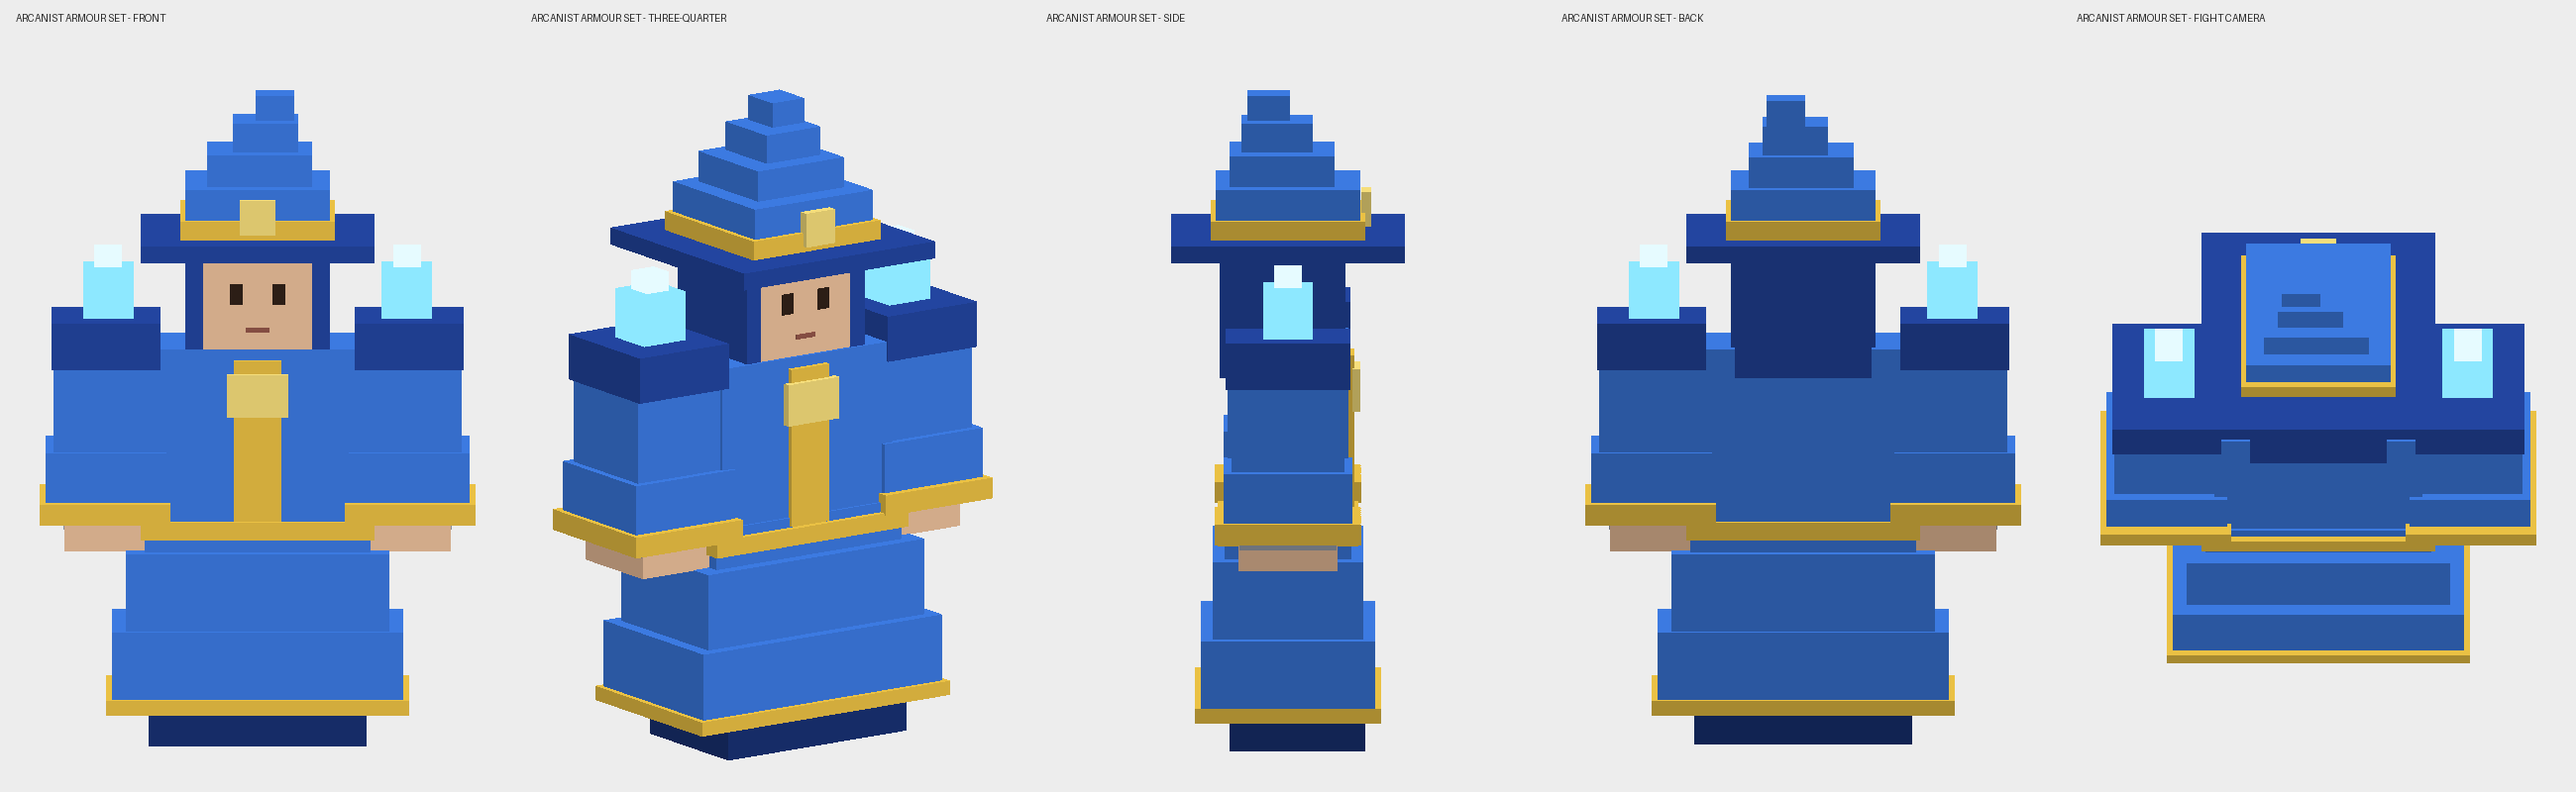
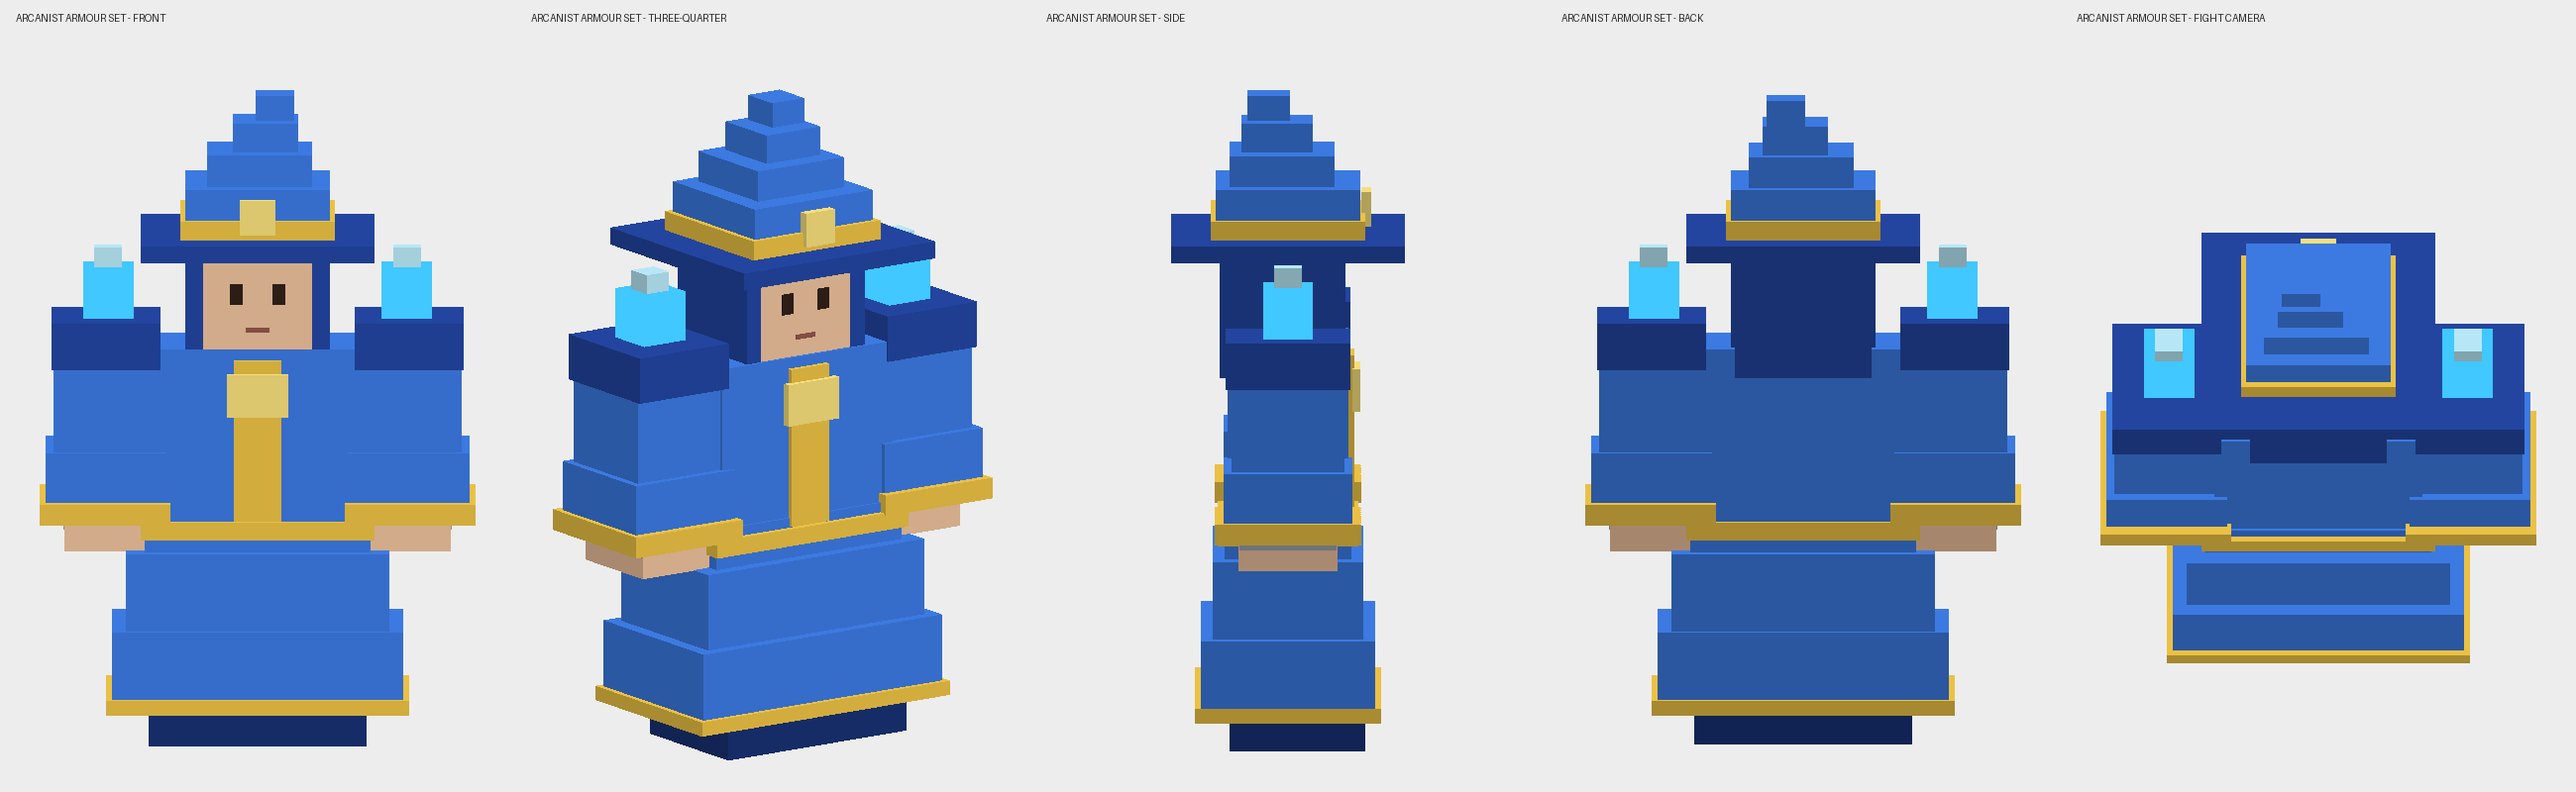
Class armour: docs say what was checked and what was not seen; plan sheets redrawn

diff --git a/docs/TRACKER.md b/docs/TRACKER.md
@@ -28,7 +28,7 @@ Nothing moves on these until you answer, so they keep their full detail.
 
 | What | What the owner does | Then Claude | Where it is |
 |---|---|---|---|
-| Class armour sets, Outfit C (2026-11-12; owner: "for the class choosing make it C") | **Look in Play:** the class select cards, the Gear portrait and a fight. Does each class read as your Outfit C drawing, by shape and colour, with the weapon hidden? They are plain blocks today. **Then the real models:** start the proposed session "Class armour: build the three sets in Claude Design" (or say to), and when it asks, import its three `<class>_pieces.glb` files (File, Import 3D, keep part names) | Builds the sets in Claude Design from the sheets, cuts each into its pieces, and after your import puts the mesh ids into `Config/ClassOutfits`, looks at them beside the sheets and ships | `Config/ClassOutfits`, `Util/ClassOutfit`, `tests/ClassOutfits.spec`; PIPELINES 12. Sheets in `assets/concepts/blocky/players/armour/` (`<class>_views.png` from Codex, `<class>_plan.png` measured); prompts in `docs/design-prompts/class-armour-2026-11.md`. In a run the avatar is set to the standard proportions and its own accessories are hidden; the lobby keeps the avatar as it is |
+| Class armour sets, Outfit C (2026-11-12; owner: "for the class choosing make it C") | **Look in Play:** the class select cards, the Gear portrait and a fight. Does each class read as your Outfit C drawing, by shape and colour, with the weapon hidden? They are plain blocks today. **Then the real models:** start the proposed session "Class armour: build the three sets in Claude Design" (or say to), and when it asks, import its three `<class>_pieces.glb` files (File, Import 3D, keep part names) | Builds the sets in Claude Design from the sheets, cuts each into its pieces, and after your import puts the mesh ids into `Config/ClassOutfits`, looks at them beside the sheets and ships | `Config/ClassOutfits`, `Util/ClassOutfit`, `tests/ClassOutfits.spec`; PIPELINES 12. Sheets in `assets/concepts/blocky/players/armour/` (`<class>_views.png` from Codex, `<class>_plan.png` measured); prompts in `docs/design-prompts/class-armour-2026-11.md`. In a run the avatar is set to the standard proportions and its own accessories are hidden; the lobby keeps the avatar as it is. Checked in Studio 2026-11-12 by probe on your avatar (a slim bundle with four accessories): every card holds its class's set, a run puts the set on (38, 35 and 45 solids), a class switch swaps it, nothing of the body stands proud of a piece, the soles reach the floor, pieces stay on their welds, and the lobby gives back the accessories and proportions. Looked at through Roblox's renderer only on plain blocky stand-in rigs in the Edit view: Play captures drew no 3D that night, so **the cards, the Gear portrait and a fight under a run's lighting have not been seen**, nor any of it on a phone. The steel and the crystals glared under the lobby's light and were toned down once |
 | Bogheart Caverns is playable: its portal is open (2026-11-06) | **Play the Bogheart portal** through to Grandmother Gulp: is twenty rooms the right length, does the difficulty climb evenly (Spore Puffs first, then Glowcaps, then Shellbacks), is the stage too hard or too easy? Its pay is in since 2026-11-07 (placeholder item BOG PEARL, row below). Should it join `Balance.campaign` (the FARTHEST ADVENTURERS order) after Thornwood? | Add the economy entry and item once named; add it to the campaign | `tools/area34_rooms.py` (20 rooms: 19 fights, then Gulp alone in the Bogheart Heart), stage 19 `area = "BogheartCaverns"`, `Config/Lobby` portal `levels = { 19 }`. Arena kit, outer cavern and ambience were already in (#480, #483): its floor is dry cave, so the Drowned splash footsteps do not apply. Played in Studio 2026-11-07: portal, room 1 (Spore Puffs chase), Gulp's lash and flops, three Spore Puffs at 2/3, her death, BOG PEARL and 140 gems, run complete. Still failing in the suite: the Bogheart Egg has no guard pet (by design, PETS-BOGHEART.md) and no area in `PetPower.spec`; say whether a guard is wanted |
 | Only Mossy Glade's ten levels have a first clear to pay (2026-11-11) | **Say whether Thornwood, the Drowned Village and Bogheart get a `level`** ("2-1", "3-1", "4-1"): a first clear is saved by the stage's `level` (`levelsBeaten`), and those three stages have none, so they give no free egg and their cards never say CLEARED | Give each a level (a new key in the save, no migration needed), which also turns on the egg and CLEARED | `Config/Economy.firstClearEgg` is set for all three already; `RoomController.complete` pays it wherever `Wallet.beatLevel` says first time |
 | One font everywhere (2026-11-11; owner: "the ui font for everything should match the new ui text font, replacing the previous rule") | **Look in Play:** every word is now the rounded font: the health and dash bars, skill bar, damage numbers, name tags, boss bar, cards, NEW ENEMY!, loading tips, leaderboards. Say where a size now reads wrong: the sizes were tuned for the wider blocky letters, so some words may sit small in their boxes or large on their bars | Retune the sizes named (`Config/Hud.barText`, `Config/CardTheme`, the screens' own) | Done by swapping the font in all 26 files that named it; rule 11 and the font gate rewritten. The room sign keeps its drawn pixel letters, and the loading art its painted ones. Seen in Studio 2026-11-12 at desktop size (lobby, run HUD, draft cards, rewards, end screens); the draft's subtitle went from 16 to 22 |

diff --git a/CLAUDE.md b/CLAUDE.md
@@ -225,8 +225,9 @@ What exists and works, all verified in Studio rather than only by the gates:
   measured on the standard blocky body; never a body cut into parts, which is what left holes
   in the class bodies), `Util/ClassOutfit` dresses a character: it hides the avatar's own
   accessories, sets its proportions to the standard ones in a run, welds every piece on
-  (massless, no collision, no raycast, like the weapon) and stretches it to the body part's
-  real size. Worn in a run (`Main` `refreshWeapon`, beside the weapon), on each class select
+  (massless, no collision, no raycast, like the weapon) and stretches it to a body part that
+  is larger than the standard one, never shrinking it, so a slim avatar still wears the chunky
+  set. Worn in a run (`Main` `refreshWeapon`, beside the weapon), on each class select
   card and on the Gear portrait (`GearScreen.portrait`); the lobby keeps the player's own
   avatar. **The pieces are plain blocks until the Claude Design models are imported**
   (`docs/PIPELINES.md` 12, prompts in `docs/design-prompts/class-armour-2026-11.md`, sheets in
@@ -711,6 +712,15 @@ draft into its controller layout.
   have stopped moving.
 - `screen_capture` in play mode returns the GUI layer over a black 3D viewport.
   That is a capture limitation, not a render fault — verify geometry instead.
+  A ViewportFrame is 3D too: on 2026-11-12 the class select cards came back
+  empty in a Play capture while each held its figure (a red test block in a
+  fresh ViewportFrame was missing as well). Probe the viewport's WorldModel,
+  or build the thing in the Edit Workspace, capture there (Edit captures do
+  draw 3D, and take a camera position) and delete it.
+- **This place's signals are deferred**: a `ChildAdded` or changed-signal
+  listener runs a moment after the change, not inside the call that made it.
+  A spec that asserts what a listener did waits a step first (`task.wait()`),
+  as `ClassOutfits.spec` does for a late accessory.
 - **Never call a client Fx module's `start()` in the Edit datamodel** to
   preview it. Its RenderStepped connection outlives the probe, keeps running
   against the Edit scene's stale `Balance` cache, and logs errors under

diff --git a/docs/PIPELINES.md b/docs/PIPELINES.md
@@ -195,4 +195,4 @@ Outfit C (owner, 2026-11-12): a full blocky set per class over the player's own 
 
 **Claude:** `tools/studio/dump_imports.luau` → each piece's `meshId`, `size` and `at` (and `turned` if it came in backwards) into `Config/ClassOutfits`; the blocks stay as the fallback. Then look in Studio: the class select cards, the Gear portrait and a fight, beside the sheet.
 
-**Pitfalls seen:** once a set is on a character in the world, only its welds may move it: writing a piece's `CFrame` from the server moves the whole character back to where the server last saw it. Two pieces that overlap on one leg or across the knee flicker where their faces meet; they abut instead.
+**Pitfalls seen:** once a set is on a character in the world, only its welds may move it: writing a piece's `CFrame` from the server moves the whole character back to where the server last saw it. Two pieces that overlap on one leg or across the knee flicker where their faces meet; they abut instead. A piece never shrinks to a slim avatar (`ClassOutfits.stretch`): shrunk, the owner's own avatar wore thin boots and sleeves. Near-white and Neon blocks glare under the lobby's light; judge colours in a run and on the cards, not only on the sheet.
